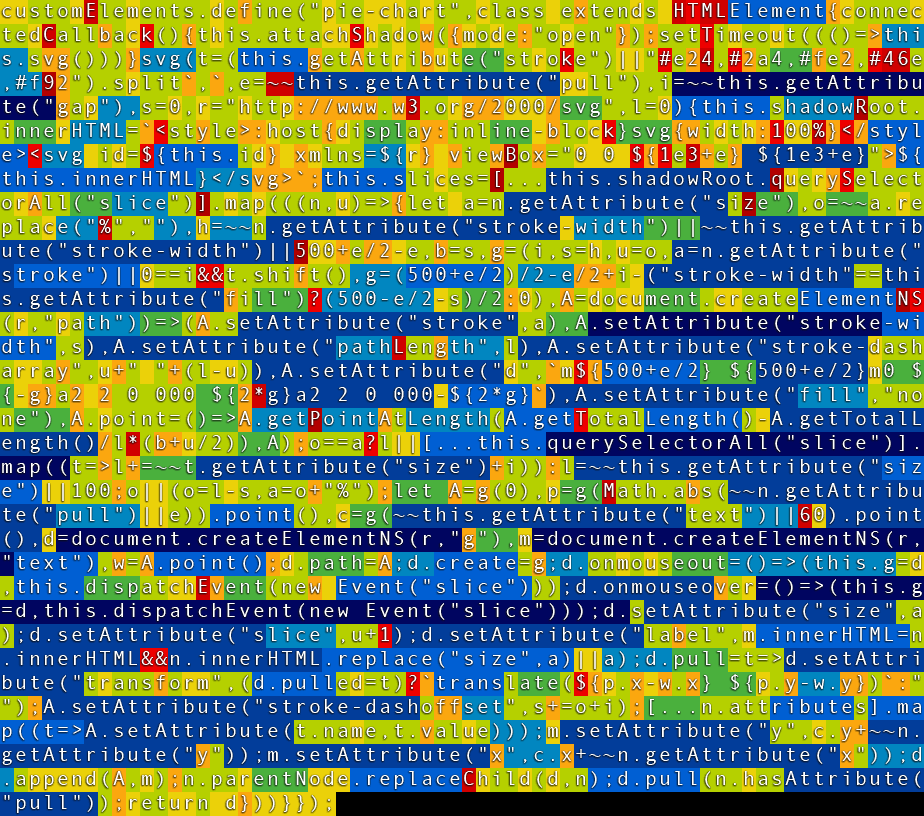
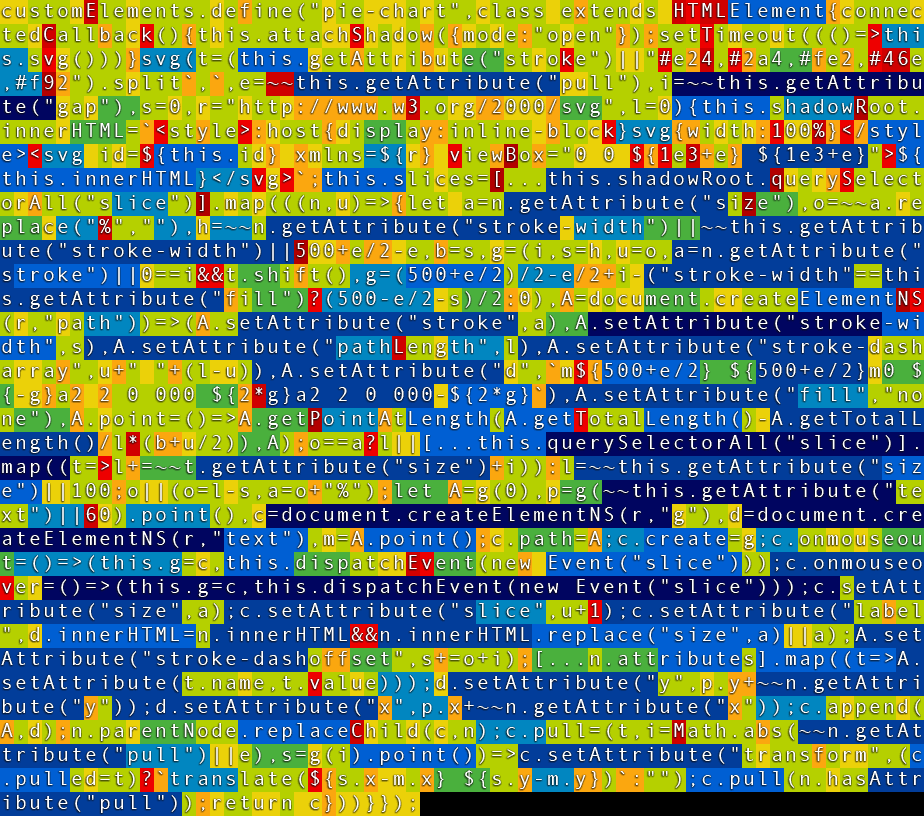
Peking eend

diff --git a/index.html b/index.html
@@ -45,6 +45,9 @@
         max-width: 1024px;
         margin: 0 auto;
       }
+      2columns{
+
+      }
       pie-chart {
         max-width: 49vw;
         background: var(--pie-demo-background);
@@ -507,5 +510,191 @@
     </p>
 
     </section>
+    <section>
+      <h2>Or if you do not prefer Web Components and want to use React:</h2>
+      <pre><code class="language-javascript">
+        import React from 'react';
+        import { storiesOf } from '@storybook/react';
+        import { PieChart } from '../src';
+        import FullOption from './FullOption';
+        import InteractionStory from './InteractionStory';
+        import InteractionTabStory from './InteractionTabStory';
+        import LoadingIndicatorStory from './LoadingIndicatorStory';
+        import PartialLoadingIndicatorStory from './PartialLoadingIndicatorStory';
+        import Tooltip from './Tooltip';
+        
+        const dataMock = [
+          { title: 'One', value: 10, color: '#E38627' },
+          { title: 'Two', value: 15, color: '#C13C37' },
+          { title: 'Three', value: 20, color: '#6A2135' },
+        ];
+        
+        const defaultLabelStyle = {
+          fontSize: '5px',
+          fontFamily: 'sans-serif',
+        };
+        
+        storiesOf('Pie Chart', module)
+          .add('Full option', () => &lt;FullOption data={dataMock} />)
+          .add('Default', () => &lt;PieChart data={dataMock} />)
+          .add('Custom size', () => (
+            &lt;PieChart data={dataMock} style={{ height: '100px' }} />
+          ))
+          .add('Exploded', () => {
+            const shiftSize = 7;
+            return (
+              &lt;PieChart
+                data={dataMock}
+                radius={PieChart.defaultProps.radius - shiftSize}
+                segmentsShift={(index) => (index === 0 ? shiftSize : 0.5)}
+                label={({ dataEntry }) => dataEntry.value}
+                labelStyle={{
+                  ...defaultLabelStyle,
+                }}
+              />
+            );
+          });
+        
+        storiesOf('Donut Chart', module)
+          .add("Custom arcs' width", () => &lt;PieChart data={dataMock} lineWidth={15} />)
+          .add('Rounded arcs', () => (
+            &lt;PieChart data={dataMock} lineWidth={15} rounded />
+          ))
+          .add('Padded arcs', () => (
+            &lt;PieChart data={dataMock} lineWidth={15} paddingAngle={5} />
+          ));
+        
+        storiesOf('Loading indicator', module)
+          .add('360° indicator', () => &lt;LoadingIndicatorStory />)
+          .add('270° indicator with background', () => (
+            &lt;PartialLoadingIndicatorStory />
+          ));
+        
+        storiesOf('Partial chart', module)
+          .add('180° chart', () => (
+            &lt;PieChart
+              data={dataMock}
+              startAngle={180}
+              lengthAngle={180}
+              viewBoxSize={[100, 50]}
+            />
+          ))
+          .add('90° chart', () => (
+            &lt;PieChart
+              data={dataMock}
+              center={[100, 100]}
+              startAngle={-180}
+              lengthAngle={90}
+              radius={100}
+            />
+          ))
+          .add('Missing slice', () => &lt;PieChart data={dataMock} totalValue={60} />)
+          .add('Missing slice with background', () => (
+            &lt;PieChart data={dataMock} totalValue={60} background="#bfbfbf" />
+          ));
+        
+        storiesOf('Labels', module)
+          .add('Default labels', () => (
+            &lt;PieChart
+              data={dataMock}
+              label={({ dataEntry }) => dataEntry.value}
+              labelStyle={{
+                ...defaultLabelStyle,
+              }}
+            />
+          ))
+          .add('Outer labels', () => (
+            &lt;PieChart
+              data={dataMock}
+              label={({ dataEntry }) => dataEntry.value}
+              labelStyle={(index) => ({
+                fill: dataMock[index].color,
+                fontSize: '5px',
+                fontFamily: 'sans-serif',
+              })}
+              radius={42}
+              labelPosition={112}
+            />
+          ))
+          .add('Inner labels', () => (
+            &lt;PieChart
+              data={dataMock}
+              lineWidth={20}
+              paddingAngle={18}
+              rounded
+              label={({ dataEntry }) => dataEntry.value}
+              labelStyle={(index) => ({
+                fill: dataMock[index].color,
+                fontSize: '5px',
+                fontFamily: 'sans-serif',
+              })}
+              labelPosition={60}
+            />
+          ))
+          .add('Single label', () => (
+            &lt;PieChart
+              data={[{ value: 82, color: '#E38627' }]}
+              totalValue={100}
+              lineWidth={20}
+              label={({ dataEntry }) => dataEntry.value}
+              labelStyle={{
+                fontSize: '25px',
+                fontFamily: 'sans-serif',
+                fill: '#E38627',
+              }}
+              labelPosition={0}
+            />
+          ))
+          .add('Percentage', () => (
+            &lt;PieChart
+              data={dataMock}
+              label={({ dataEntry }) => Math.round(dataEntry.percentage) + '%'}
+              labelStyle={defaultLabelStyle}
+            />
+          ));
+        
+        storiesOf('Animation', module)
+          .add('On mount clockwise', () => &lt;PieChart data={dataMock} animate />)
+          .add('On mount counterclockwise', () => (
+            &lt;PieChart data={dataMock} lengthAngle={-360} animate />
+          ));
+        
+        storiesOf('Interaction', module)
+          .addParameters({ options: { showPanel: true, panelPosition: 'bottom' } })
+          .add('click, mouseOver, mouseOut callbacks', () => (
+            &lt;InteractionStory data={dataMock} />
+          ))
+          .add('Tab + Enter key press', () => &lt;InteractionTabStory data={dataMock} />);
+        
+        storiesOf('Misc', module)
+          .add('Single gradient', () => (
+            &lt;PieChart
+              data={[{ value: 10, color: 'url(#gradient1)' }]}
+              startAngle={-180}
+              lengthAngle={180}
+              lineWidth={20}
+              viewBoxSize={[100, 50]}
+            >
+              &lt;defs>
+                &lt;linearGradient id="gradient1">
+                  &lt;stop offset="0%" stopColor="#4CAF50" />
+                  &lt;stop offset="45%" stopColor="#ffb961" />
+                  &lt;stop offset="55%" stopColor="#ffb961" />
+                  &lt;stop offset="100%" stopColor="#C13C37" />
+                &lt;/linearGradient>
+              &lt;/defs>
+            &lt;/PieChart>
+          ))
+          .add('Squared pie', () => (
+            &lt;PieChart
+              data={dataMock}
+              label={({ dataEntry }) => dataEntry.value}
+              labelStyle={defaultLabelStyle}
+              radius={75}
+            />
+          ))
+          .add('Tooltip integration', () => &lt;Tooltip data={dataMock} />);</code></pre>
+    </section>
+
   </body>
 </html>

diff --git a/elements.pie-meister.min.js b/elements.pie-meister.min.js
@@ -1,1 +1,102 @@
-customElements.define("pie-chart",class extends HTMLElement{connectedCallback(){this.attachShadow({mode:"open"});setTimeout((()=>this.svg()))}svg(t=(this.getAttribute("stroke")||"#e24,#2a4,#fe2,#46e,#f92").split`,`,e=~~this.getAttribute("pull"),i=~~this.getAttribute("gap"),s=0,r="http://www.w3.org/2000/svg",l=0){this.shadowRoot.innerHTML=`<style>:host{display:inline-block}svg{width:100%}</style><svg id=${this.id} xmlns=${r} viewBox="0 0 ${1e3+e} ${1e3+e}">${this.innerHTML}</svg>`;this.slices=[...this.shadowRoot.querySelectorAll("slice")].map(((n,u)=>{let a=n.getAttribute("size"),o=~~a.replace("%",""),h=~~n.getAttribute("stroke-width")||~~this.getAttribute("stroke-width")||500+e/2-e,b=s,g=(i,s=h,u=o,a=n.getAttribute("stroke")||0==i&&t.shift(),g=(500+e/2)/2-e/2+i-("stroke-width"==this.getAttribute("fill")?(500-e/2-s)/2:0),A=document.createElementNS(r,"path"))=>(A.setAttribute("stroke",a),A.setAttribute("stroke-width",s),A.setAttribute("pathLength",l),A.setAttribute("stroke-dasharray",u+" "+(l-u)),A.setAttribute("d",`m${500+e/2} ${500+e/2}m0 ${-g}a2 2 0 000 ${2*g}a2 2 0 000-${2*g}`),A.setAttribute("fill","none"),A.point=()=>A.getPointAtLength(A.getTotalLength()-A.getTotalLength()/l*(b+u/2)),A);o==a?l||[...this.querySelectorAll("slice")].map((t=>l+=~~t.getAttribute("size")+i)):l=~~this.getAttribute("size")||100;o||(o=l-s,a=o+"%");let A=g(0),p=g(~~this.getAttribute("text")||60).point(),c=document.createElementNS(r,"g"),d=document.createElementNS(r,"text"),m=A.point();c.path=A;c.create=g;c.onmouseout=()=>(this.g=c,this.dispatchEvent(new Event("slice")));c.onmouseover=()=>(this.g=c,this.dispatchEvent(new Event("slice")));c.setAttribute("size",a);c.setAttribute("slice",u+1);c.setAttribute("label",d.innerHTML=n.innerHTML&&n.innerHTML.replace("size",a)||a);A.setAttribute("stroke-dashoffset",s+=o+i);[...n.attributes].map((t=>A.setAttribute(t.name,t.value)));d.setAttribute("y",p.y+~~n.getAttribute("y"));d.setAttribute("x",p.x+~~n.getAttribute("x"));c.append(A,d);n.parentNode.replaceChild(c,n);c.pull=(t,i=Math.abs(~~n.getAttribute("pull")||e),s=g(i).point())=>c.setAttribute("transform",(c.pulled=t)?`translate(${s.x-m.x} ${s.y-m.y})`:"");c.pull(n.hasAttribute("pull"));return c}))}});
+customElements.define(
+  "pie-chart",
+  class extends HTMLElement {
+    connectedCallback() {
+      this.attachShadow({ mode: "open" });
+      setTimeout(() => this.svg());
+    }
+    svg(
+      t = (this.getAttribute("stroke") || "#e24,#2a4,#fe2,#46e,#f92").split`,`,
+      e = ~~this.getAttribute("pull"),
+      i = ~~this.getAttribute("gap"),
+      s = 0,
+      r = "http://www.w3.org/2000/svg",
+      l = 0
+    ) {
+      this.shadowRoot.innerHTML = `<style>:host{display:inline-block}svg{width:100%}</style><svg id=${
+        this.id
+      } xmlns=${r} viewBox="0 0 ${1e3 + e} ${1e3 + e}">${this.innerHTML}</svg>`;
+      this.slices = [...this.shadowRoot.querySelectorAll("slice")].map(
+        (n, u) => {
+          let a = n.getAttribute("size"),
+            o = ~~a.replace("%", ""),
+            h =
+              ~~n.getAttribute("stroke-width") ||
+              ~~this.getAttribute("stroke-width") ||
+              500 + e / 2 - e,
+            b = s,
+            g = (
+              i,
+              s = h,
+              u = o,
+              a = n.getAttribute("stroke") || (0 == i && t.shift()),
+              g = (500 + e / 2) / 2 -
+                e / 2 +
+                i -
+                ("stroke-width" == this.getAttribute("fill")
+                  ? (500 - e / 2 - s) / 2
+                  : 0),
+              A = document.createElementNS(r, "path")
+            ) => (
+              A.setAttribute("stroke", a),
+              A.setAttribute("stroke-width", s),
+              A.setAttribute("pathLength", l),
+              A.setAttribute("stroke-dasharray", u + " " + (l - u)),
+              A.setAttribute(
+                "d",
+                `m${500 + e / 2} ${500 + e / 2}m0 ${-g}a2 2 0 000 ${
+                  2 * g
+                }a2 2 0 000-${2 * g}`
+              ),
+              A.setAttribute("fill", "none"),
+              (A.point = () =>
+                A.getPointAtLength(
+                  A.getTotalLength() - (A.getTotalLength() / l) * (b + u / 2)
+                )),
+              A
+            );
+          o == a
+            ? l ||
+              [...this.querySelectorAll("slice")].map(
+                (t) => (l += ~~t.getAttribute("size") + i)
+              )
+            : (l = ~~this.getAttribute("size") || 100);
+          o || ((o = l - s), (a = o + "%"));
+          let A = g(0),
+            p = g(Math.abs(~~n.getAttribute("pull") || e)).point(),
+            c = g(~~this.getAttribute("text") || 60).point(),
+            d = document.createElementNS(r, "g"),
+            m = document.createElementNS(r, "text"),
+            w = A.point();
+          d.path = A;
+          d.create = g;
+          d.onmouseout = () => (
+            (this.g = d), this.dispatchEvent(new Event("slice"))
+          );
+          d.onmouseover = () => (
+            (this.g = d), this.dispatchEvent(new Event("slice"))
+          );
+          d.setAttribute("size", a);
+          d.setAttribute("slice", u + 1);
+          d.setAttribute(
+            "label",
+            (m.innerHTML = (n.innerHTML && n.innerHTML.replace("size", a)) || a)
+          );
+          d.pull = (t) =>
+            d.setAttribute(
+              "transform",
+              (d.pulled = t) ? `translate(${p.x - w.x} ${p.y - w.y})` : ""
+            );
+          A.setAttribute("stroke-dashoffset", (s += o + i));
+          [...n.attributes].map((t) => A.setAttribute(t.name, t.value));
+          m.setAttribute("y", c.y + ~~n.getAttribute("y"));
+          m.setAttribute("x", c.x + ~~n.getAttribute("x"));
+          d.append(A, m);
+          n.parentNode.replaceChild(d, n);
+          d.pull(n.hasAttribute("pull"));
+          return d;
+        }
+      );
+    }
+  }
+);

diff --git a/elements.pie-meister.js b/elements.pie-meister.js
@@ -1,5 +1,6 @@
 // IDE VSCode with comment highlighting for comments (green), todo (orange), warning (red)
 
+// pull on all pull graphs
 // document gap
 // document size=360 , or set fixed pathLength=100
 
@@ -133,10 +134,6 @@ customElements.define(
           // ------------------------------------------------------------------ create SVG slice
           let path = createSlice(0); // path stroke positioning 0 = middle of slice
 
-          // pullPoint used to calculate pull distance in the correct direction, not drawn on SVG
-          let pullPoint = createSlice(
-            Math.abs(~~sliceDefinition.getAttribute("pull") || pull)
-          ).point();
           // textPoint used for <text> label position calculation, not drawn on SVG
           let textPoint = createSlice(
             ~~this.getAttribute("text") || 60
@@ -177,16 +174,6 @@ customElements.define(
               /* else use: */ sizeString)
           );
 
-          // create method .pull(T/F)
-          group.pull = (state) =>
-            group.setAttribute(
-              "transform",
-              (group.pulled = state)
-                ? `translate(${pullPoint.x - grouppoint.x} ${
-                    pullPoint.y - grouppoint.y
-                  })`
-                : `` //`translate(0 0)`
-            );
           //! calculate dashoffset ONCE for each slice, I tried to parameterize to for the createSlice function
           //! but need way more code. This means 3rd party code needs to substract the size from the offset see example
           path.setAttribute(
@@ -206,16 +193,26 @@ customElements.define(
             "x",
             textPoint.x + ~~sliceDefinition.getAttribute("x")
           );
-
-          // let circle = document.createElementNS(namespace, "g");
-          // circle.innerHTML = `<circle cx="${group.p.x}" cy="${group.p.y}" r="20" fill="red"/>`;
-
-          group.append(path, label);
-
           // --- add path and label to SVG, at <slice> position
+          group.append(path, label);
           // parentNode can be SVG or user element <g>
           sliceDefinition.parentNode.replaceChild(group, sliceDefinition);
-
+          // ------------------------------------------------------------------ create method .pull(T/F)
+          group.pull = (
+            state,
+            distance = Math.abs(~~sliceDefinition.getAttribute("pull") || pull),
+            // pullPoint used to calculate pull distance in the correct direction, not drawn on SVG
+            pullPoint = createSlice(distance).point()
+          ) =>
+            group.setAttribute(
+              "transform",
+              (group.pulled = state)
+                ? `translate(${pullPoint.x - grouppoint.x} ${
+                    pullPoint.y - grouppoint.y
+                  })`
+                : `` //`translate(0 0)`
+            );
+          // ------------------------------------------------------------------ pull current slice
           group.pull(sliceDefinition.hasAttribute("pull"));
           return group;
         }

diff --git a/demo_assets/elements.pie-meister.site-elements.js b/demo_assets/elements.pie-meister.site-elements.js
@@ -78,7 +78,7 @@ customElements.define(
   class extends HTMLElement {
     connectedCallback() {
       fetch(this.getAttribute("src")).then(
-        (res) => (this.innerHTML = " " + res.headers.get("content-length") + " Bytes")
+        (res) => (this.innerHTML = " " + res.headers.get("content-length") + "&nbsp;Bytes")
       );
     }
   }
